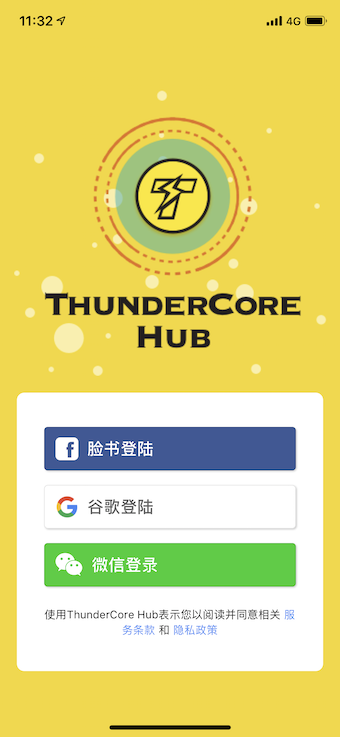
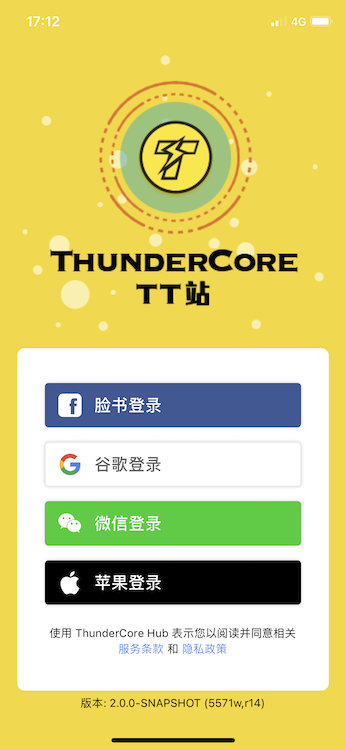
Updates to Support Center

diff --git a/docs-en/get-wallet.md b/docs-en/get-wallet.md
@@ -16,9 +16,9 @@ Download the ThunderCore Hub on the [App Store](https://apps.apple.com/tw/app/th
 Check out [ThunderCore Hub](https://www.thundercore.com/thundercore-hub/) on ThunderCore official site.
 
 ### Overview about ThunderCore Hub
-1. After opening the App, you can sign in to the wallet via 3 ways.
+1. After opening the App, you can sign in to the wallet via 4 ways.
 
-![alt-text](assets/img/wallet/hubbit1.PNG)
+![alt-text](assets/img/wallet/hubbit1.jpg)
 
 2. Then you will see the Home tab. You can enter the DApp or website URL in the search bar.
 

diff --git a/docs-cn/get-wallet.md b/docs-cn/get-wallet.md
@@ -15,7 +15,7 @@ ThunderCore Hub 是一款安全且易于使用的加密钱包，具有完整的 
 亦可从 [App Store](https://apps.apple.com/tw/app/thundercore-hub/id1471222243) 或 [Google Play](https://play.google.com/store/apps/details?id=com.thundercore.mobile) 装载。
 
 ### 有关 ThunderCore Hub 的概览
-1. 打开应用程序后，您可以通过 3 种方式登录钱包。
+1. 打开应用程序后，您可以通过 4 种方式登录钱包。
 
 ![alt-text](assets/img/wallet/hubbit1_cn.PNG)
 
